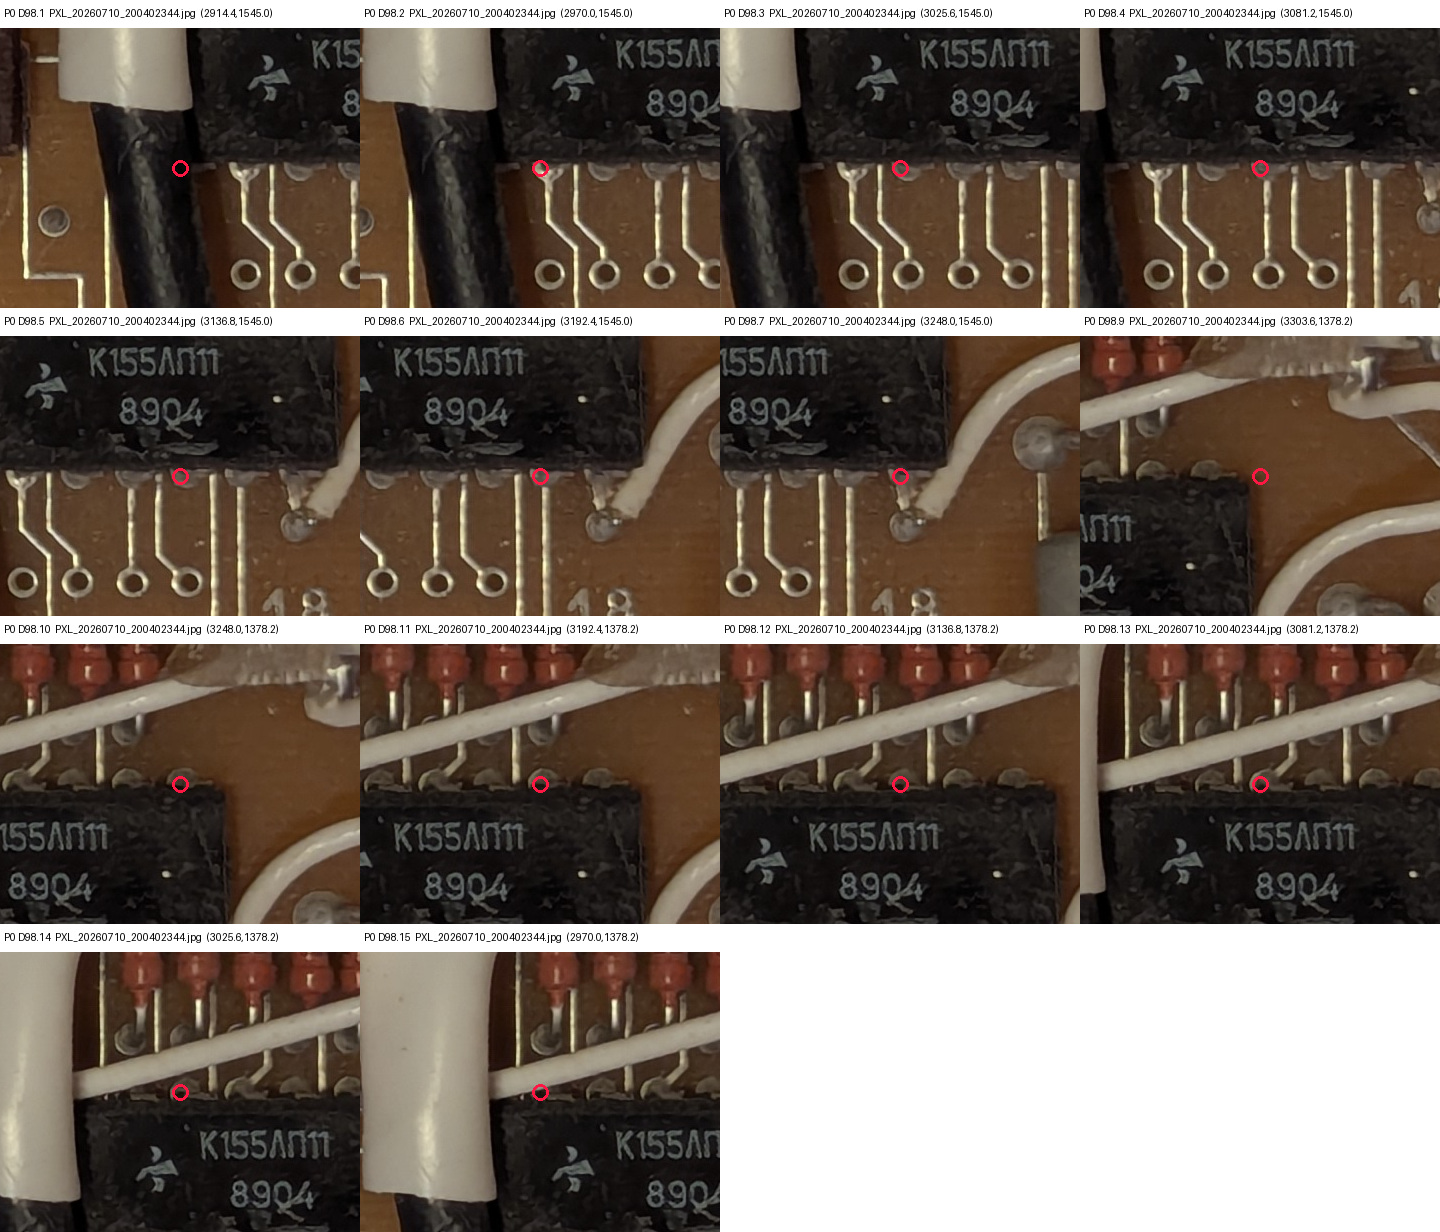
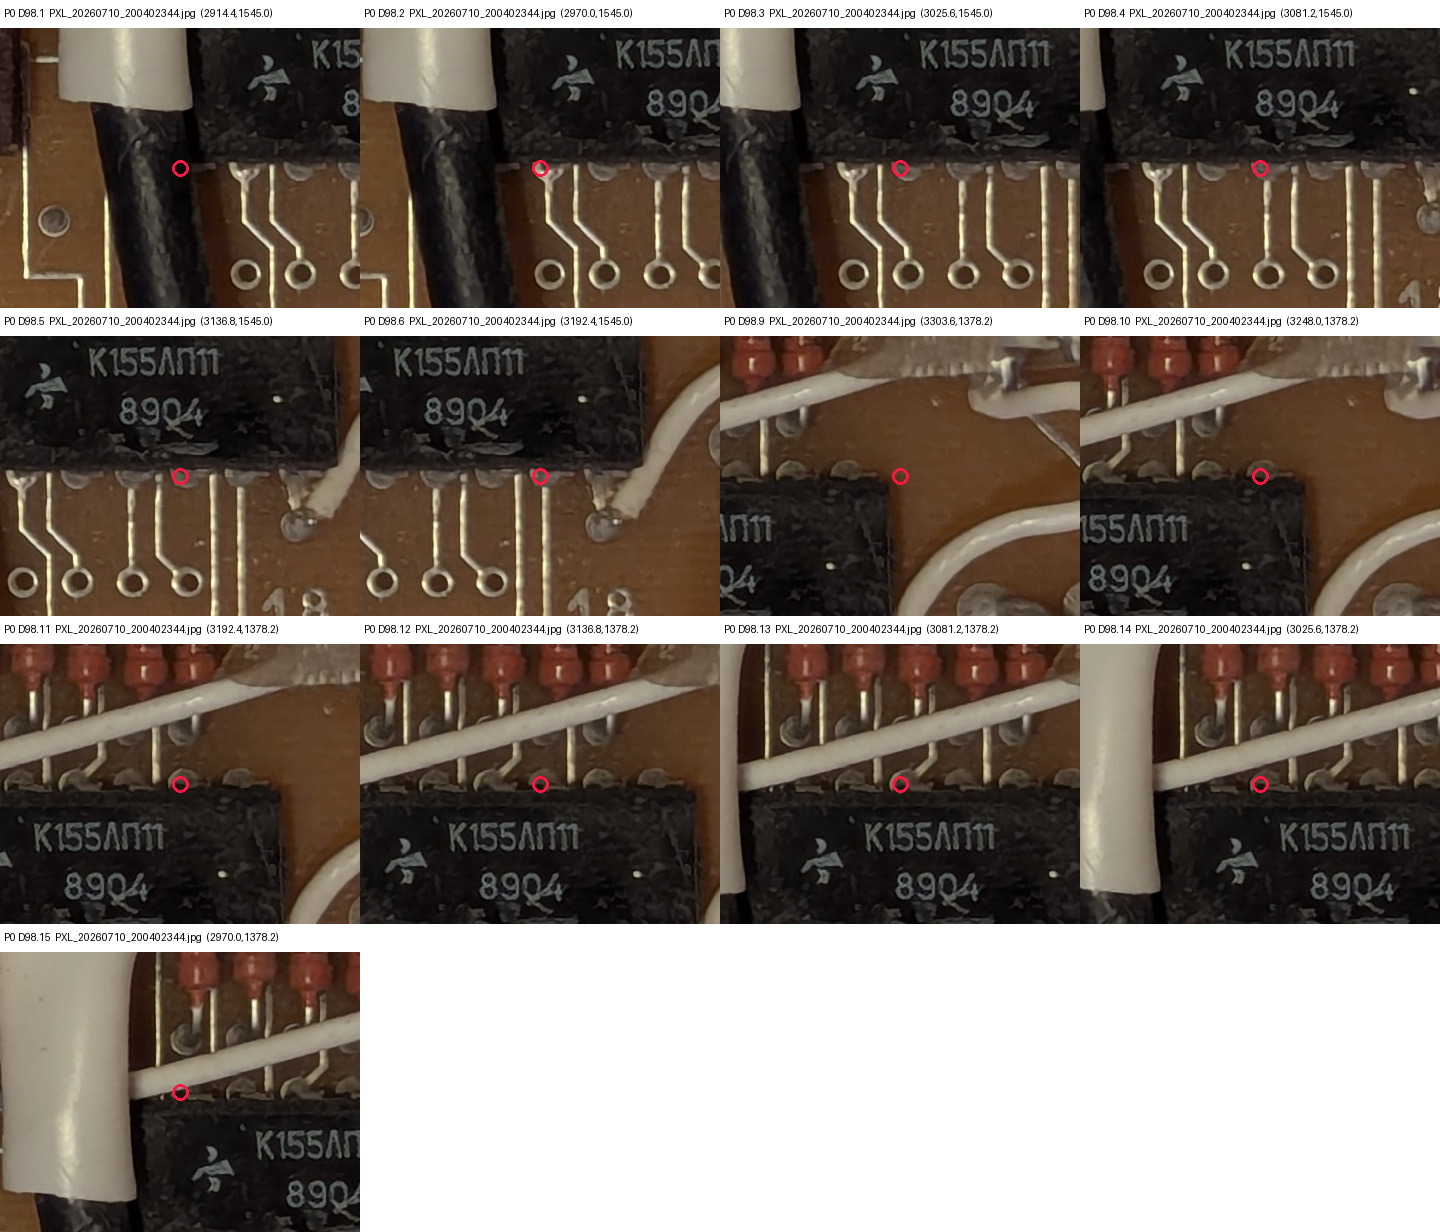
Fit D98 solder footprint and close wire 18

Changed region(s): [[0.0, 0.2468, 1.0, 1.0]]

diff --git a/scripts/report_owner_measurement_shortlist.py b/scripts/report_owner_measurement_shortlist.py
@@ -222,10 +222,10 @@ def main() -> int:
         ),
         (
             "P1",
-            "wire-18 220-ohm local branch",
-            "A:17/A:18 and both S1 endpoints are now photo/document proved; identify only the separately reported 220-ohm branch near D98.7 and state whether it is part of D98_Y3_S1_2 or another local FDC net",
+            "R94 220-ohm far endpoint",
+            "two-sided D98 evidence disproves a 220-ohm branch at pin 7; confirm the photographed R94 far terminal and its apparent near-side copper to D98.3",
             "`ref/schematics/dgsh5-109-009-sb-wire-table.md` rows 11/12; `docs/assembly-drawing-extraction.md`; `ref/photos/juku-pcb-2/BODGE-TRIAGE.md`",
-            "prevents an unproved resistor from being folded into the now-closed S1 harness nets",
+            "adds the missing .009 R94 part on its actual FDC support net without reopening the closed S1 harness",
         ),
         (
             "P0",

diff --git a/scripts/report_assembly_drawing_extraction.py b/scripts/report_assembly_drawing_extraction.py
@@ -75,7 +75,7 @@ def main() -> int:
         ),
         (
             "Factory wires 17 and 18 carry documented S1 far ends without conflation",
-            marker(bodge_text, "| 17 |", "200358952", "A17.1", "| 18 |", "validated D98 component fit", "А:18 - S1:2", "do not conflate with wire 17"),
+            marker(bodge_text, "| 17 |", "200358952", "A17.1", "| 18 |", "Validated component and solder fits", "А:18 - S1:2", "do not conflate with wire 17"),
             "sheets 2-5 wire table rows 11/12 plus accepted two-sided/photo-package evidence",
         ),
         (

diff --git a/docs/photo-registration.md b/docs/photo-registration.md
@@ -22,11 +22,11 @@ endpoint table contains 612 reviewed rows:
 
 | State | Rows | Meaning |
 | --- | ---: | --- |
-| `accepted` | 18 | two-sided evidence adopted into the board model |
-| `measurement` | 594 | pad/path review is inconclusive; continuity or better local evidence is required |
+| `accepted` | 20 | two-sided evidence adopted into the board model |
+| `measurement` | 592 | pad/path review is inconclusive; continuity or better local evidence is required |
 
-Confidence metadata consists of 121 `local-package-fit`, 444
-`registration-only`, and 47 `registration+unique-hole-snap` rows. A hole snap
+Confidence metadata consists of 135 `local-package-fit`, 432
+`registration-only`, and 45 `registration+unique-hole-snap` rows. A hole snap
 or accurate pad projection is not electrical evidence by itself.
 
 Accepted paths:
@@ -37,14 +37,15 @@ Accepted paths:
 - D94.2 -> D93.3 / `FDC_CS_N`;
 - D94.3 -> D93.2 / `FDC_WE_N`.
 - А:17 -> S1.1 / `RES_RC` (dedicated numbered wire landing).
+- D98.7 -> А:18 -> S1.2 / `D98_Y3_S1_2`.
 
 The reviewed package fits also corrected the source placement/orientation of
 D2, D10, D41, D94, D100, and D98. A D11 solder fit corrects endpoint
 coordinates without changing its source placement. At D98.7, the component
 fit also identifies the visible white wire-18 lead; the factory wire table
-independently closes that off-board path as А:18 to S1:2. Its endpoint row
-remains `measurement` because a matching solder-side landing is not locally
-registered. The tracked routed PCB and Gerber ZIP intentionally remain the
+independently closes that off-board path as А:18 to S1:2. A new affine solder
+fit corrects a roughly 330 px global-projection displacement and shows that no
+PCB copper departs D98.7; both observations are accepted. The tracked routed PCB and Gerber ZIP intentionally remain the
 last clean pre-correction snapshot until the whole D94/D100 bus cluster can be
 rerouted coherently.
 
@@ -101,7 +102,8 @@ fits. D93, D100, and D98 also have useful local fits, but their unresolved
 signals remain measurements where copper is obscured or leaves the visible
 layer. The D11 solder fit holds both unused corners out at 2.375 px and
 localizes the factory-reworked area beside pins 4-6; it does not establish the
-obscured bridge endpoints.
+obscured bridge endpoints. The D98 solder fit holds pin 16 out at 0 px on the
+complete affine 2x8 row.
 
 ## Promotion rule and remaining work
 

diff --git a/PLAN.md b/PLAN.md
@@ -70,9 +70,9 @@ closed and the corrected board has been rerouted and reviewed.
 
 The July photo workflow is complete as a registration/review scaffold: all 50
 photos are inventoried, the 28-image grid is registered on both sides, and all
-612 observations have dispositions. Eighteen rows are accepted evidence for
+612 observations have dispositions. Twenty rows are accepted evidence for
 five D2 address nets, three D94-to-D93 control nets, and the two-sided А:17
-wire landing; the other 594 remain measurement requests. This closes the automated review queue, not the P0
+and D98.7/S1.2 wire landings; the other 592 remain measurement requests. This closes the automated review queue, not the P0
 connectivity work. `docs/photo-registration.md` records the method and
 `docs/owner-measurement-shortlist.md` is the current hardware-session queue.
 

diff --git a/docs/owner-measurement-shortlist.md b/docs/owner-measurement-shortlist.md
@@ -48,7 +48,7 @@ python3 scripts/report_owner_measurement_shortlist.py
 | P0 | D94 .092 continuity | D94 pin 15 enable, pins 4-7/9 destinations, and every branch from D93.2/D93.4 beyond the visible D94.3/D94.1 segments on a .009 processor board | `docs/d94-reconstruction-constraints.md` | required to resolve the PROM-only read/write-strobe impossibility before any defensible D94 replacement |
 | P1 | FDC interrupt/buffer continuity | WD1793 DRQ/INTRQ to 8259 inputs, D93 MR/CLK, plus D100 OE/T if accessible | `docs/fdc-hardware-handoff.md`; `docs/replica-bringup-verification-points.md`; `PLAN.md` P0/P1 gates | reduces first EKDOS-on-hardware debug risk |
 | P0 | memory-decode stragglers | D6 V1/V2 feed, C99 far plate, D7/D25_T source inputs, D36/D39/D53 RAM-strobe ambiguous feeds, and D41 timing-bus input/control pins | `docs/io-decode-boundary.md`; `docs/memory-timing-boundary.md`; `docs/d41-timing-boundary.md`; `docs/replica-bringup-verification-points.md`; `PLAN.md` P0 connectivity gate | tightens the as-built netlist around RAM/video timing before netlist freeze |
-| P1 | wire-18 220-ohm local branch | A:17/A:18 and both S1 endpoints are now photo/document proved; identify only the separately reported 220-ohm branch near D98.7 and state whether it is part of D98_Y3_S1_2 or another local FDC net | `ref/schematics/dgsh5-109-009-sb-wire-table.md` rows 11/12; `docs/assembly-drawing-extraction.md`; `ref/photos/juku-pcb-2/BODGE-TRIAGE.md` | prevents an unproved resistor from being folded into the now-closed S1 harness nets |
+| P1 | R94 220-ohm far endpoint | two-sided D98 evidence disproves a 220-ohm branch at pin 7; confirm the photographed R94 far terminal and its apparent near-side copper to D98.3 | `ref/schematics/dgsh5-109-009-sb-wire-table.md` rows 11/12; `docs/assembly-drawing-extraction.md`; `ref/photos/juku-pcb-2/BODGE-TRIAGE.md` | adds the missing .009 R94 part on its actual FDC support net without reopening the closed S1 harness |
 | P0 | factory Вид В pad mapping | for D56, D15, D14, and D11 identify every position-150/159 cut pad/via, removed copper segment, and replacement connection; at D15 identify the auxiliary vertical segment cut between its second/third shown vias (roughly pad levels 8/9); at D14 identify the position-159 auxiliary hole, three long replacement traces, and right-row dogleg; at D11 use the validated solder fit that localizes rework beside pins 4-6 to map the four-hole auxiliary field and obscured bridge; the acquired sheets 2-5 wire table covers wires/cables only, so use registered solder-side imagery plus continuity | `docs/factory-modification-disposition.md`; `ref/photos/dgsh5-109-009-sb/PXL_20260711_114626340.jpg` | proves that the clean source-PCB topology is electrically equivalent to the factory-modified artwork before reroute/release |
 | P0 | FDC support signal dispositions | pin-level continuity or an explicit redesign/DNP decision for D28, D95-D99, D101, D102, and D106; prioritize the FDC cluster | `docs/unmodeled-footprint-inventory.md`; `PLAN.md` P0 connectivity gate; `.009` assembly evidence | closes the functional signals on the 9 now-pin-modeled, power-routed FDC support devices |
 | P0 | D2/D105 wait-chain revision handoff | reconcile the older-sheet D95 inverter after D105.6 with the `.009` D95 FDC-multiplexer assignment and obtain the `.037` truth table; all D2 inputs are now traced | `docs/unmodeled-footprint-inventory.md`; `ref/schematics/p3_sheet1.png`; `ref/photos/juku-pcb-2/BODGE-TRIAGE.md` | closes the remaining target-revision WAIT handoff without undoing the now-modeled and routed D105 gates |

diff --git a/ref/photos/juku-pcb-2/BODGE-TRIAGE.md b/ref/photos/juku-pcb-2/BODGE-TRIAGE.md
@@ -104,7 +104,7 @@ drawing agree on these endpoints:
 | 20 | D3.10 - X3.3 | serial `S_TTL` path |
 | - | D26.23 - X9.9 | keyboard/tape connector line |
 | 17 | Component photo 200358952 at `(914,1154)` and solder photo 200509593 at `(2145,1155)` show the same dedicated tinned pad printed `17`; sheets 2-5 row 11 documents А:17 - S1:1, ~19 cm | promoted as `A17.1` on `RES_RC`; board position approximately `(115.8,27.1)` mm from the adjacent `(114.4,13.3)` mounting-hole transfer |
-| 18 | The validated D98 component fit places the visible white bracket-switch lead directly on D98.7; owner continuity additionally reports a 220-ohm local path in this quadrant; sheets 2-5 wire-table row 12 documents А:18 - S1:2, ~3 cm | promoted as `D98_Y3_S1_2`; the 220-ohm branch remains a separate local-copper check; do not conflate with wire 17 |
+| 18 | Validated component and solder fits place the white bracket-switch lead on D98.7 and show no PCB-copper departure from that pad; sheets 2-5 row 12 documents А:18 - S1:2, ~3 cm | promoted as `D98_Y3_S1_2`; the photographed 220-ohm part is the separately placed R94 below-left of D98, not a D98.7 branch; do not conflate with wire 17 |
 
 The settled wire links are represented in the board model with endpoint
 provenance. Sheet-1 assembly photos `114556899` and `114600417` separate the